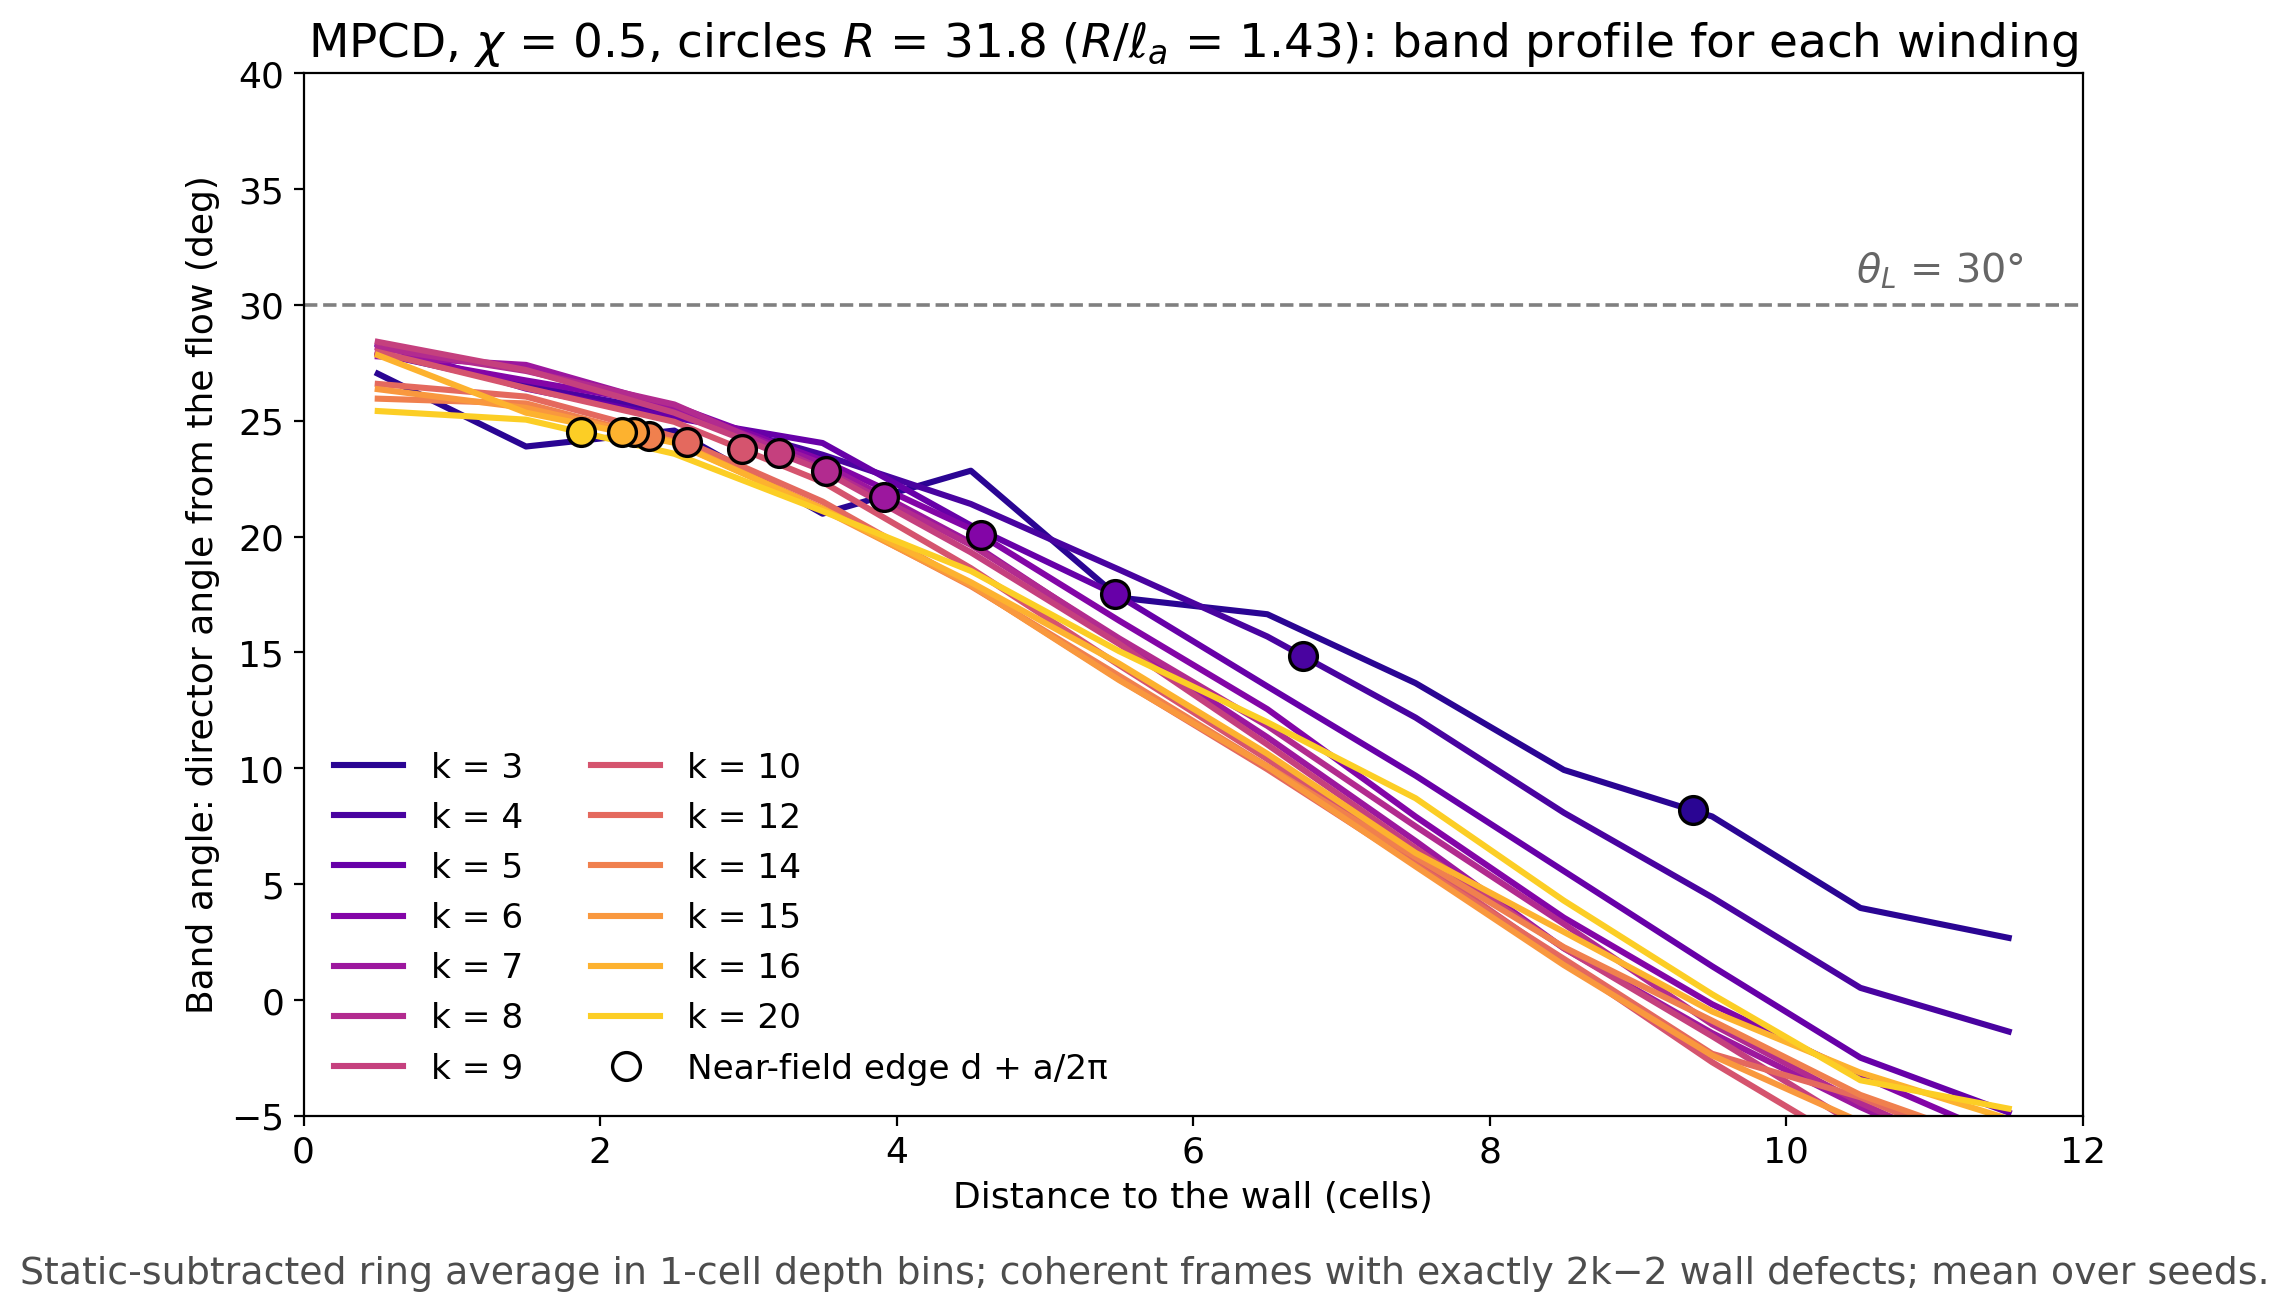
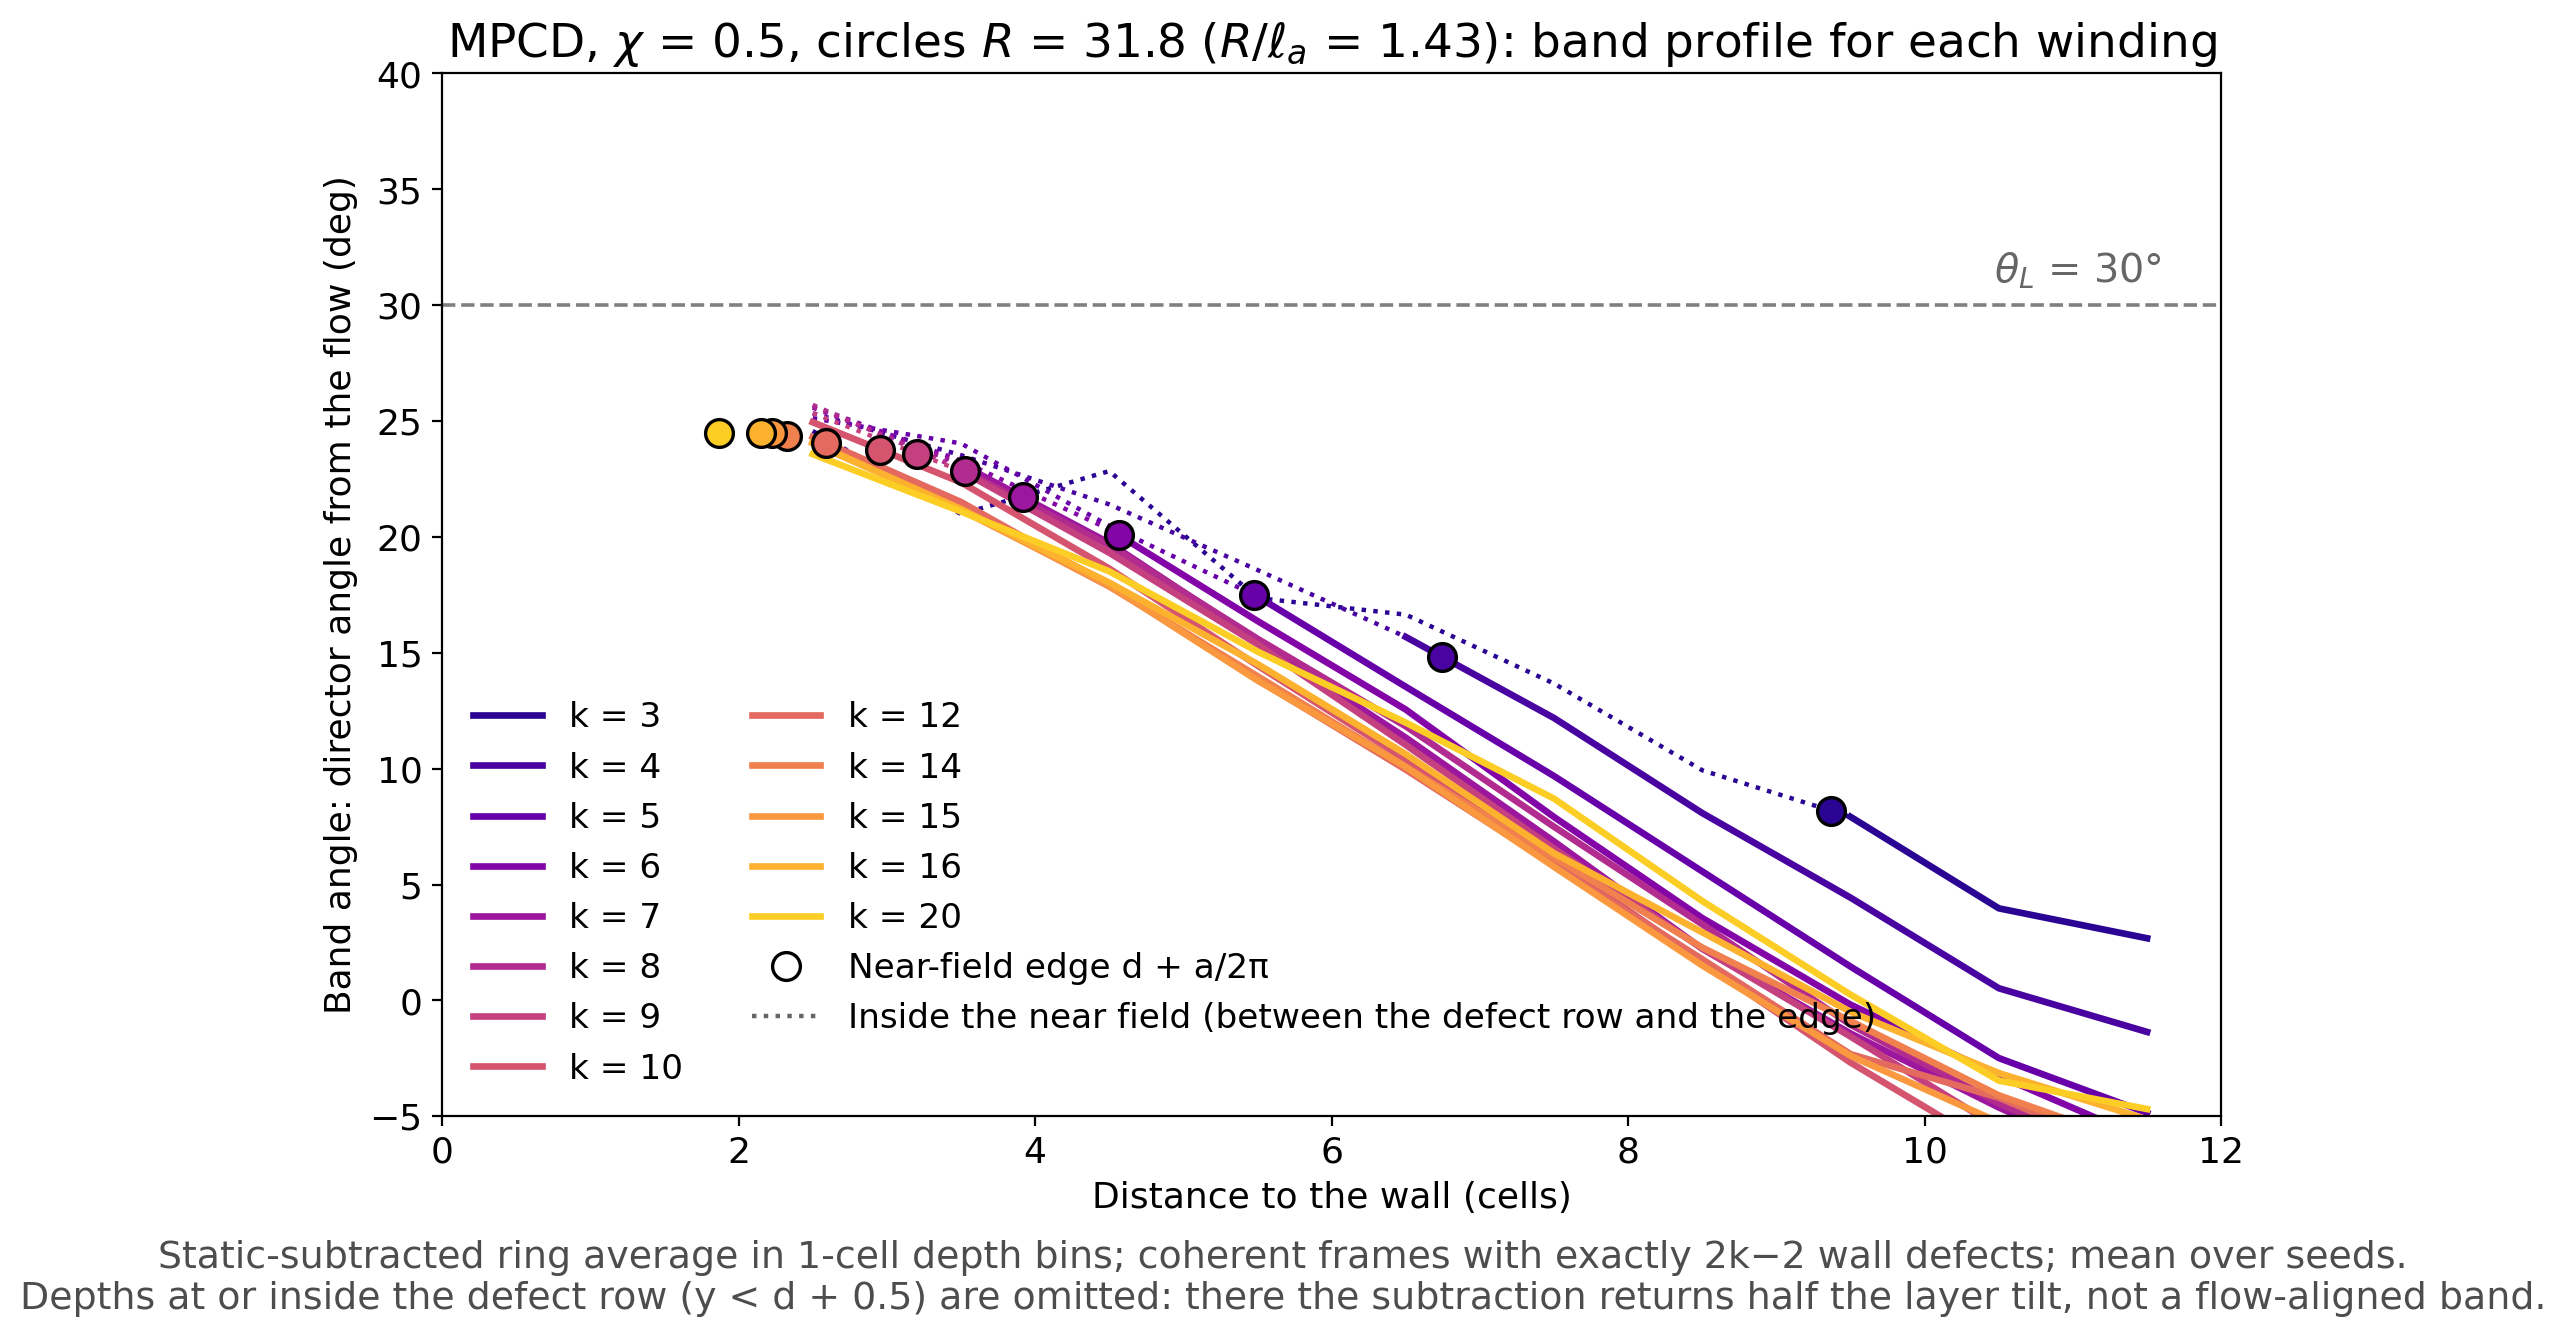
Band profiles: omit depths at/inside the defect row, where the static subtraction returns tau/2 (artefact flagged by user)

diff --git a/reports/master/theory/chi1/fig_band_profiles_k.py b/reports/master/theory/chi1/fig_band_profiles_k.py
@@ -18,7 +18,7 @@ def run_one(run):
         with gzip.open(run + "/directorfield.dat.gz", "rt") as fh: D = np.loadtxt((l for l in fh if len(l.split()) == 8 and l.split()[0][0].isdigit()))
         td = np.unique(D[:, 0]); td = td[td >= td[0] + 0.5 * (td[-1] - td[0])]; t, fr = SB.read_with_angle(run, Q, 0.0); t = np.array(t)
         n = int(D[:, 1].max()) + 1; m = int(D[:, 2].max()) + 1; X, Y = np.meshgrid(np.arange(n) + 0.5 - Q[0], np.arange(m) + 0.5 - Q[1], indexing="ij")
-        ph = np.arctan2(Y, X); u = R - np.hypot(X, Y); prof, edges = [], []
+        ph = np.arctan2(Y, X); u = R - np.hypot(X, Y); prof, edges, ds = [], [], []
         for tt in td:
             i = int(np.argmin(np.abs(t - tt)))
             if abs(t[i] - tt) > 1e-6: continue
@@ -26,7 +26,7 @@ def run_one(run):
             if w.sum() != N or abs(qs.sum() - k) > 1e-6: continue
             ez = np.mean(np.exp(1j * (f[w, 3] - np.angle(zs[w]))))
             if abs(ez) < 0.9: continue
-            sg = np.sign(np.angle(ez)) or 1.0; d = np.median(R - r[w]); edges.append(d + (R - d) / N)
+            sg = np.sign(np.angle(ez)) or 1.0; d = np.median(R - r[w]); edges.append(d + (R - d) / N); ds.append(d)
             dd = D[D[:, 0] == tt]; th2 = np.full((n, m), np.nan); S = np.zeros((n, m)); ix, iy = dd[:, 1].astype(int), dd[:, 2].astype(int)
             th2[ix, iy] = 2 * np.arctan2(dd[:, 5], dd[:, 4]); S[ix, iy] = dd[:, 7]; th2[u <= 0] = np.nan
             th2s, _, _ = SB.TS.fields(X, Y, list(zs), list(qs), R)
@@ -39,7 +39,7 @@ def run_one(run):
                 row.append(np.angle(np.exp(1j * 2 * (am - ast + ts_ / 2))) / 2)
             prof.append(row)
         if len(prof) < 3: return None
-        return dict(k=k, prof=np.degrees(np.median(np.array(prof), 0)), edge=np.median(edges), n=len(prof))
+        return dict(k=k, prof=np.degrees(np.median(np.array(prof), 0)), edge=np.median(edges), d=np.median(ds), n=len(prof))
     except Exception as ex:
         return dict(err=repr(ex)[:120], run=run)
 
@@ -53,13 +53,16 @@ if __name__ == "__main__":
     ax.axhline(30, color="0.5", ls="--", lw=1.3); ax.text(11.6, 30.6, r"$\theta_L$ = 30°", ha="right", va="bottom", fontsize=11, color="0.4")
     for i, k in enumerate(ks):
         g = [r for r in ok if r["k"] == k]; P = np.mean([r["prof"] for r in g], 0); e = np.mean([r["edge"] for r in g]); c = cmap(0.05 + 0.85 * i / max(len(ks) - 1, 1))
-        y = YB + 0.5; ax.plot(y, P, "-", color=c, lw=2.2, label=f"k = {k}")
+        y = YB + 0.5; dd = np.mean([r["d"] for r in g])
+        inside = y < dd + 0.5; near = (~inside) & (y < e); beyond = y >= e - 0.5         # inside the defect row: the subtraction returns ~tau/2 (masked)
+        dot = (~inside) & (y < e + 0.5); ax.plot(y[dot], P[dot], ":", color=c, lw=1.6)
+        sol = (~inside) & beyond; ax.plot(y[sol], P[sol], "-", color=c, lw=2.4, label=f"k = {k}")
         ax.plot(e, np.interp(e, y, P), "o", color=c, ms=10, mec="k", mew=1.2, zorder=5)
         L.append(f"{k:2d} | {len(g):2d} | {e:5.2f} | " + " ".join(f"{v:5.1f}" for v in P))
-    ax.plot([], [], "o", color="w", mec="k", mew=1.2, ms=10, label="near-field edge d + a/2π")
+    ax.plot([], [], "o", color="w", mec="k", mew=1.2, ms=10, label="near-field edge d + a/2π"); ax.plot([], [], ":", color="0.4", lw=1.6, label="inside the near field (between the defect row and the edge)")
     ax.set_xlabel("Distance to the wall (cells)"); ax.set_ylabel("Band angle: director angle from the flow (deg)"); ax.set_xlim(0, 12); ax.set_ylim(-5, 40)
     ax.set_title(r"MPCD, $\chi$ = 0.5, circles $R$ = 31.8 ($R/\ell_a$ = 1.43): band profile for each winding", fontsize=13)
     ax.legend(fontsize=9.5, frameon=False, ncol=2, loc="lower left")
-    fig.text(0.5, -0.02, "Static-subtracted ring average in 1-cell depth bins; coherent frames with exactly 2k−2 wall defects; mean over seeds.", ha="center", fontsize=10.5, color="0.3")
+    fig.text(0.5, -0.04, "Static-subtracted ring average in 1-cell depth bins; coherent frames with exactly 2k−2 wall defects; mean over seeds.\nDepths at or inside the defect row (y < d + 0.5) are omitted: there the subtraction returns half the layer tilt, not a flow-aligned band.", ha="center", fontsize=10.5, color="0.3")
     fig.tight_layout(); fig.savefig(os.path.join(H, "fig_band_profiles_k.pdf"), bbox_inches="tight"); fig.savefig(os.path.join(H, "fig_band_profiles_k.png"), dpi=200, bbox_inches="tight")
     open(os.path.join(H, "fig_band_profiles_k.txt"), "w").write("\n".join(L) + "\n"); print("\n".join(L))

diff --git a/RESEARCH.md b/RESEARCH.md
@@ -2453,3 +2453,5 @@ Paper text using these maps carries a red TODO pointing here (PRL shielding/vaca
   The profiles are essentially the SAME for every k from 5 to 20: ~27-28 deg at 0.5 cells, ~25 at 2.5, ~21-23 at 3.5, ~15 at 5.5, ~10 at 6.5, ~2 at 8.5, crossing 0 near 9.5 cells. In the bulk part (y >~ 3) the slope is ~-4 deg/cell. Only the sparsest k 3-4 decay more slowly beyond ~5 cells.
   The near-field-edge markers slide along this common curve: 24.5 deg (k 20, edge 1.9) -> 20 (k 6, 4.6) -> 15 (k 4, 6.7) -> 8 (k 3, 9.4).
   => The band does not depend on the layer (crowding), and the "gap vs edge" relation at chi 0.5 is the shape of this universal band profile sampled at each layer's edge. At chi 1 the band stays near theta_L to depth (chi_test), so the field outside the near field barely changes with k and the gap stays small. This also explains why the chi-0.5 and chi-1 gap laws differ.
+- (12:10) (user challenge) CORRECTION to the band-profile figure: at and inside the defect row (y < d + 0.5, d ~ 1.1-1.9 cells) the static-subtracted average alpha_meas - (alpha_static - tau_s/2) returns ~tau/2 (measured ~ static there): e.g. k 20 gave 25.4 vs tau/2 = 24.3. The "rise towards theta_L at the wall" was this artefact. Those bins are now omitted (dotted between the defect row and the near-field edge, solid beyond).
+  What stays: beyond the near field the profiles for k 5-20 coincide (~24 deg at 2.5 cells falling ~4 deg/cell to 0 at ~9.5). The rise towards theta_L approaching the wall from BEHIND the layer is what the chi-0.5 annulus theory predicts (Lambda -> 1 at the wall, under-rotation grows inwards); it is flat at chi 1. The marker values of the crowded edges are interpolated from bins next to the masked region (approximate).
